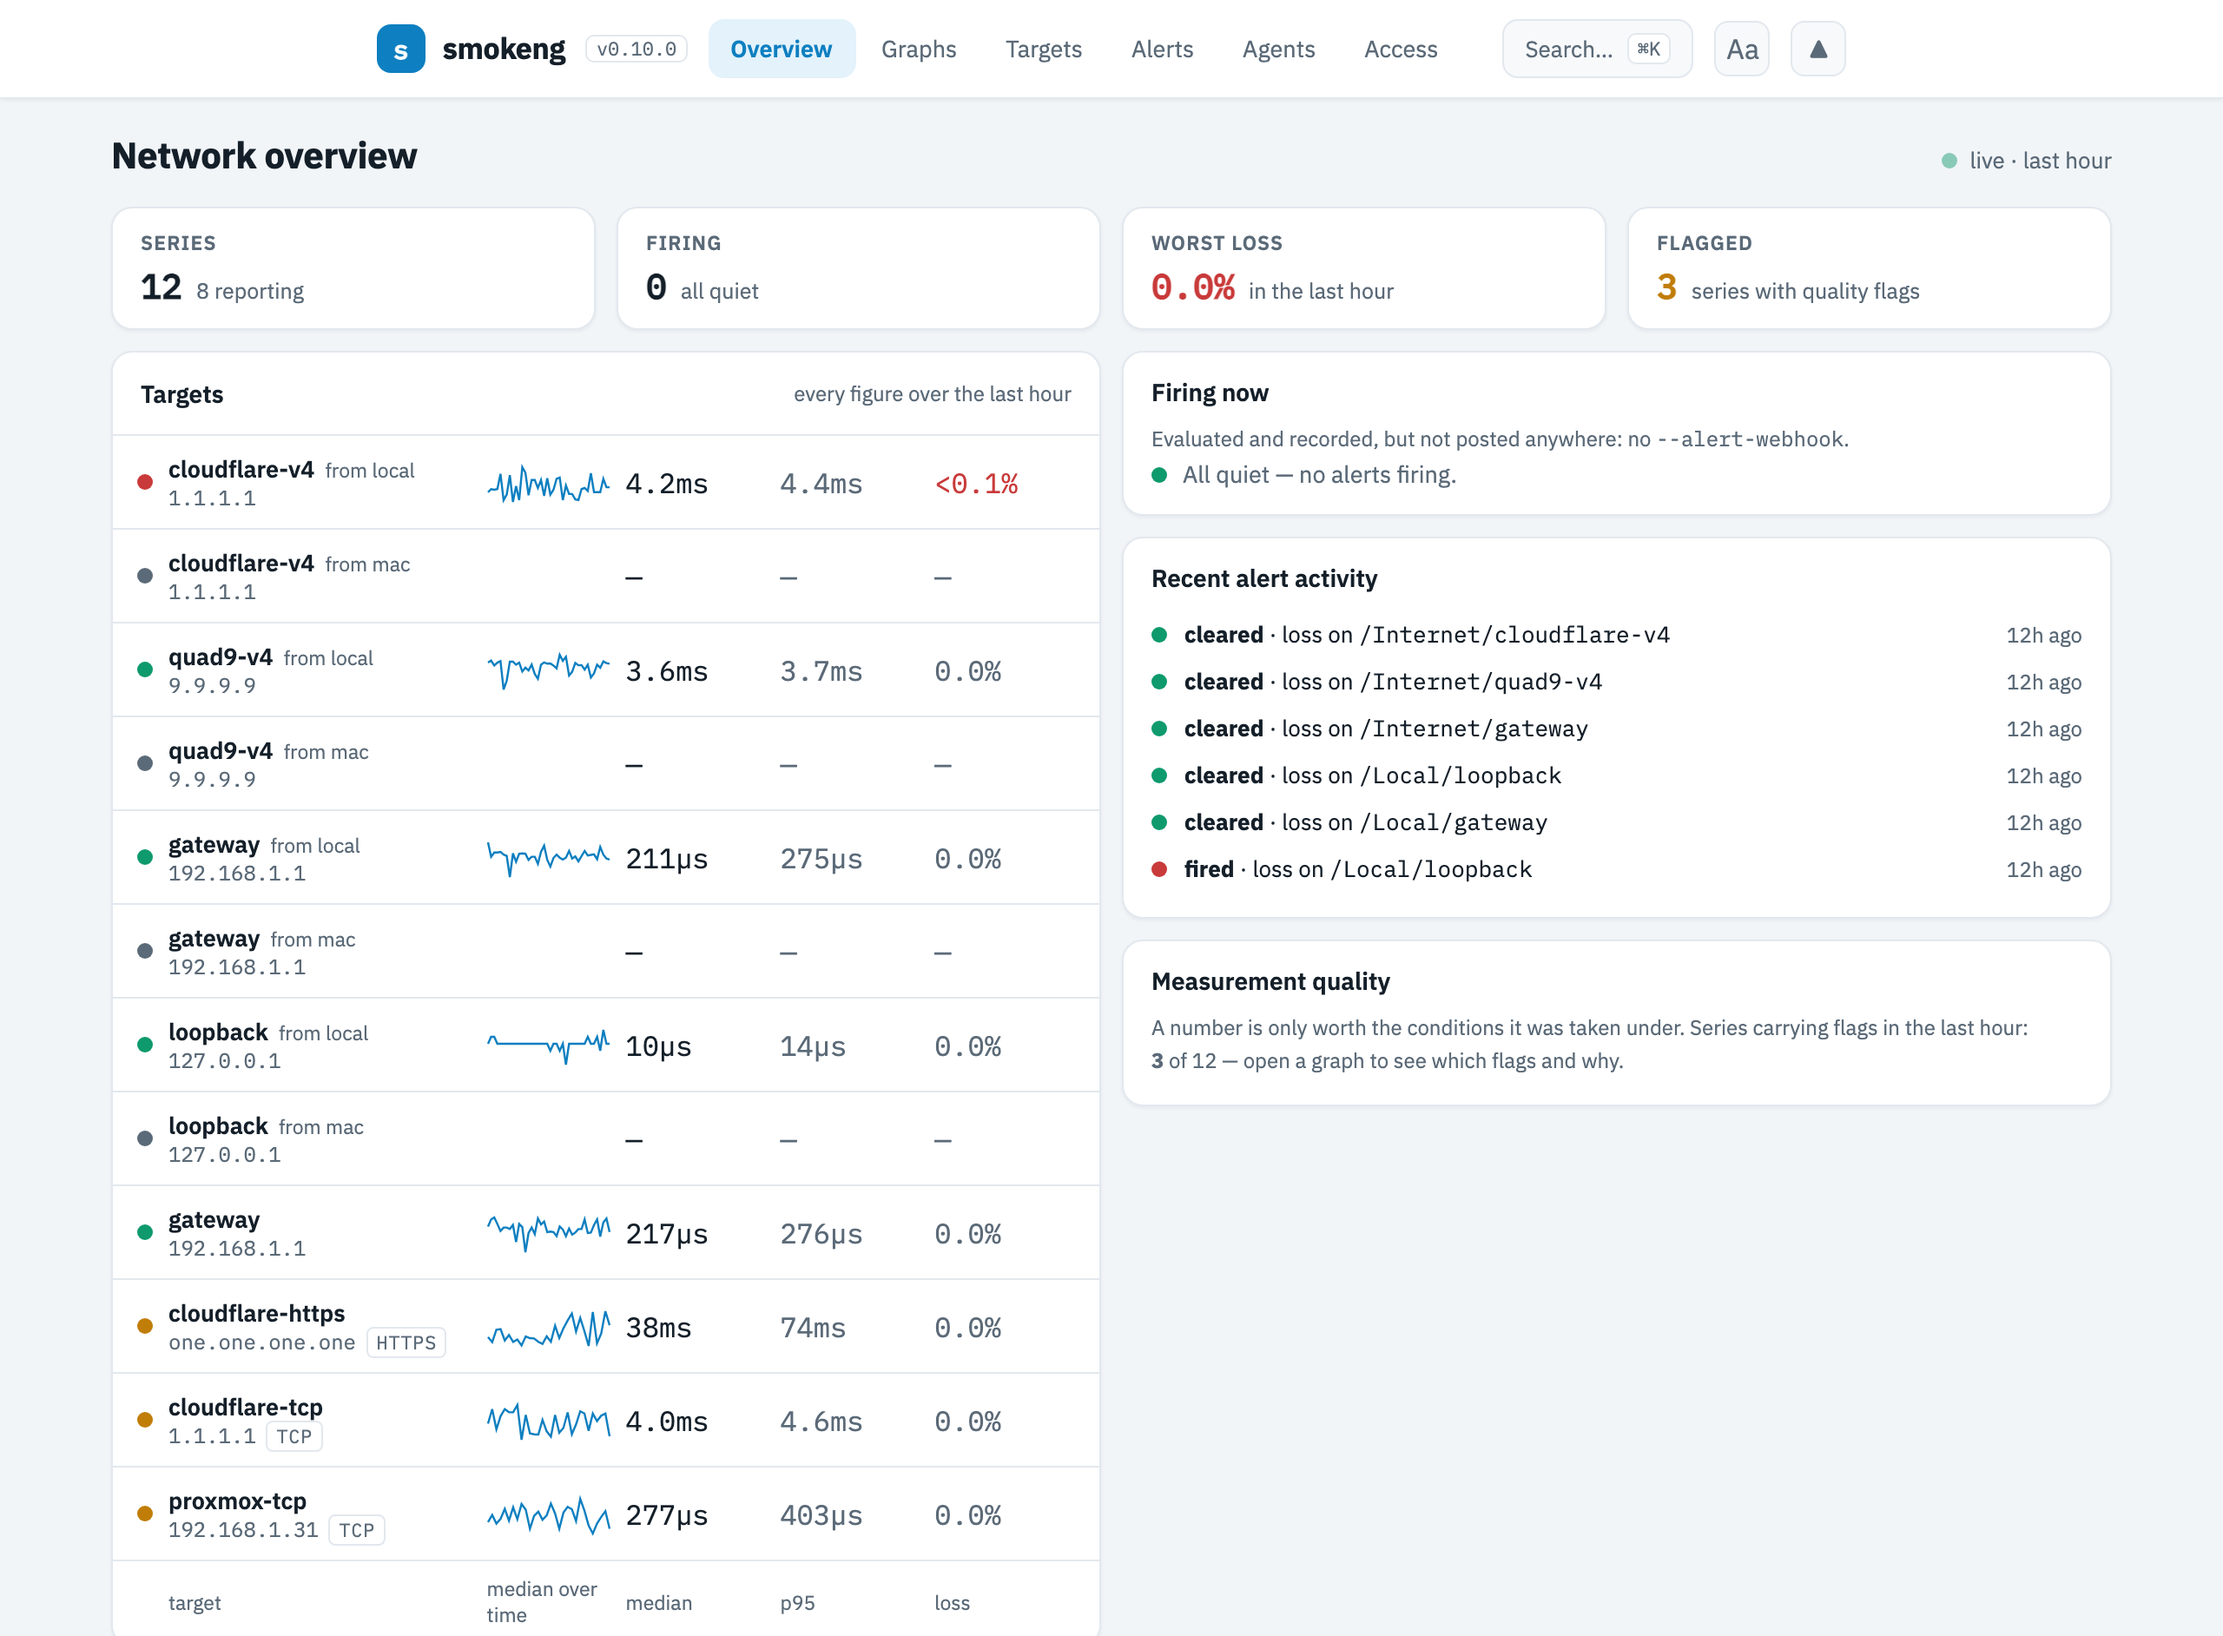
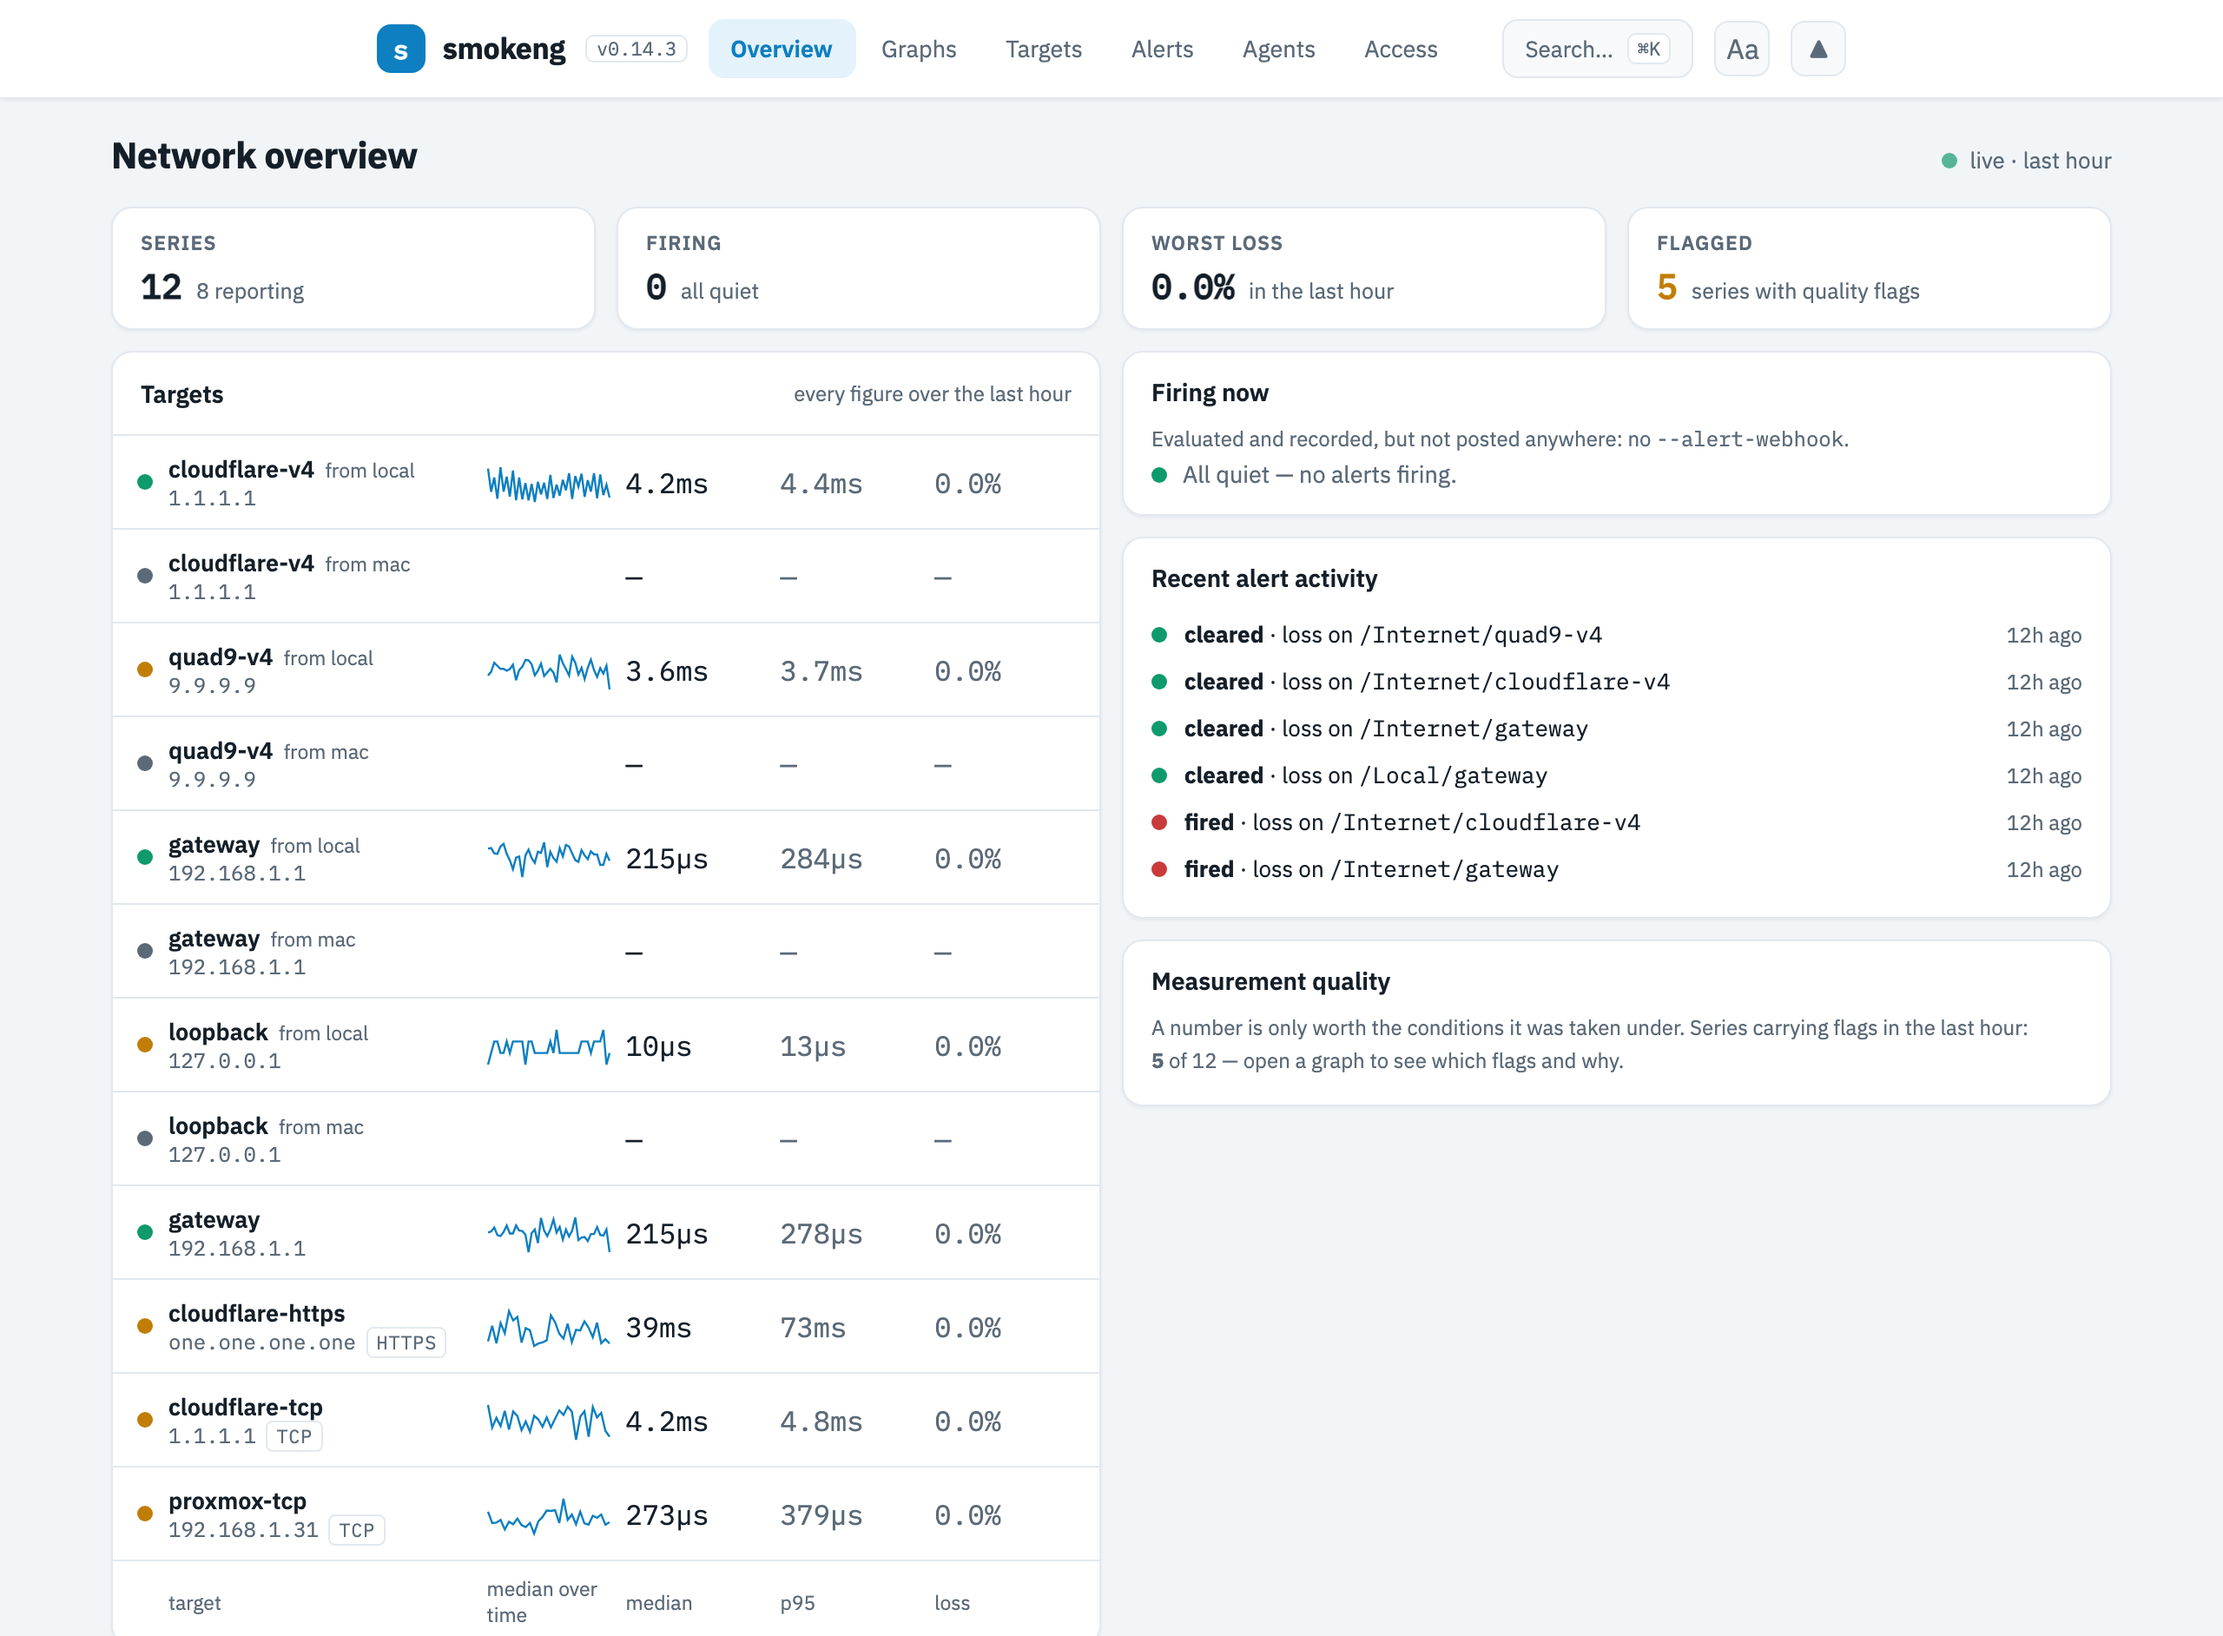
Refresh the screenshots for the shape, silence and availability features
Recaptured from the live instance on v0.14.3, plus a new one. The four existing
shots predate three features and showed two bugs these captures are what found:

- alerts.png (new): the Alerts page — firing, the rule list with the shape and
  bimodality detectors and a golden rule naming the reference it captured, the
  silences and the maintenance window, and the transition history. Referenced from
  alerting.md, which described all of it in prose.
- detail.png: now includes the availability panel. Taken over 24h rather than the
  7d default, because a target two days old reads as low coverage there — true, but
  a fact about this instance rather than about the report, and a screenshot should
  not teach the wrong lesson. The alert rules beside it also no longer say
  "bimodality > 0.6ms".
- smokeng.png, overview.png, compare.png: unchanged in composition, recaptured for
  a consistent version badge.

The notes in docs/images/README.md now record both traps: the empty vantage-point
panels and the availability default.

diff --git a/docs/images/README.md b/docs/images/README.md
@@ -1,20 +1,30 @@
 # Documentation screenshots
 
 The docs reference these PNGs directly; the captions and alt text live with each
-reference. All four are captured at 1280×942 logical, 2× device scale → **2560×1884**,
-theme-light, from a live instance.
+reference. All are captured from a live instance at 1280 logical pixels wide, 2× device
+scale, theme-light.
 
 | File | View | Referenced from |
 | --- | --- | --- |
 | `smokeng.png` | **Graphs** (hero) — the stacked density smoke led by a service probe whose distribution shows real spread and a faint tail, with loss rails, quality badges and the target-tree sidebar. | `README.md`, `reading-graphs.md` |
 | `overview.png` | **Overview** — the KPI cards, the per-series list with sparklines, and the firing/recent-alert panel. | `getting-started.md` |
-| `compare.png` | **Compare** — the compare overlay (button in the Graphs toolbar): every vantage point's pooled median on one axis with the legend. | `reading-graphs.md` |
-| `detail.png` | **Detail** — a target's page: median / p95 / spread above the full-height smoke plot, with the effective settings alongside. | `reading-graphs.md` |
+| `compare.png` | **Compare** — the compare overlay: every vantage point's pooled median on one axis with the legend. | `reading-graphs.md` |
+| `detail.png` | **Detail** — median / p95 / spread above the full-height smoke plot, the availability panel, and the effective settings and alert rules alongside. | `reading-graphs.md` |
+| `alerts.png` | **Alerts** — firing alerts, the rule list (including shape and bimodality rules and a golden reference), silences and maintenance windows, and the transition history. | `alerting.md` |
+
+The first three are 2560×1884 (942 logical high); `detail.png` and `alerts.png` are
+2560×3000, since both pages are longer than a viewport.
 
 ## Recapturing
 
-These were driven with headless Chrome over the DevTools Protocol — no extra
-dependencies beyond Chrome and a recent Node (global `WebSocket`). Point it at a running
-instance, set the range to **15m** so a recent loss band does not dominate the frame,
-and prefer views with no empty "from &lt;agent&gt;" panels. The device metrics
-(`1280×942`, `deviceScaleFactor: 2`) reproduce the resolution above exactly.
+Driven with headless Chrome over the DevTools Protocol — no dependencies beyond Chrome
+and a recent Node (global `WebSocket`). Point it at a running instance and set device
+metrics to `1280×<height>`, `deviceScaleFactor: 2`.
+
+Two things matter for a shot that is honest as well as tidy:
+
+- Set the graph range to **15m** and prefer views with no empty "from &lt;agent&gt;"
+  panels, so nothing reads as broken that is merely unassigned.
+- The availability panel defaults to **7d**. On a target only a day or two old that
+  shows low coverage — true, but an artefact of the instance rather than of the report.
+  **24h** shows the panel doing its job.

diff --git a/docs/reading-graphs.md b/docs/reading-graphs.md
@@ -85,10 +85,12 @@ window on screen, computed from the same samples the plot draws, above a full-he
 plot and the target's effective settings, alert rules and vantage points.
 
 ![A target's detail page: median, p95 and spread figures above a large density-smoke plot,
-with the target's settings and the agents measuring it alongside](images/detail.png)
+then availability and coverage over a period, with the target's effective settings, its
+alert rules and the agents measuring it alongside](images/detail.png)
 
 *The detail view. p95 and the spread are the two numbers a median cannot give you, and the
-reason the whole distribution is kept.*
+reason the whole distribution is kept. Availability and coverage sit below, as two figures
+rather than one.*
 
 ## Availability
 

diff --git a/docs/alerting.md b/docs/alerting.md
@@ -6,6 +6,13 @@ condition has held for a number of consecutive intervals, and clears only after 
 stopped holding for a number of consecutive intervals. A flapping link produces one alert,
 not forty.
 
+![The Alerts page: what is firing, the rule list including shape and bimodality rules with
+a golden reference, the silences and maintenance windows, and the transition
+history](images/alerts.png)
+
+*The Alerts page. Rules, the silences that mute them for a window, and the history of every
+transition — recorded whether or not a webhook was reachable.*
+
 ## Defining a rule
 
 In TOML, under `[default_alerts.<name>]` for the whole tree or
